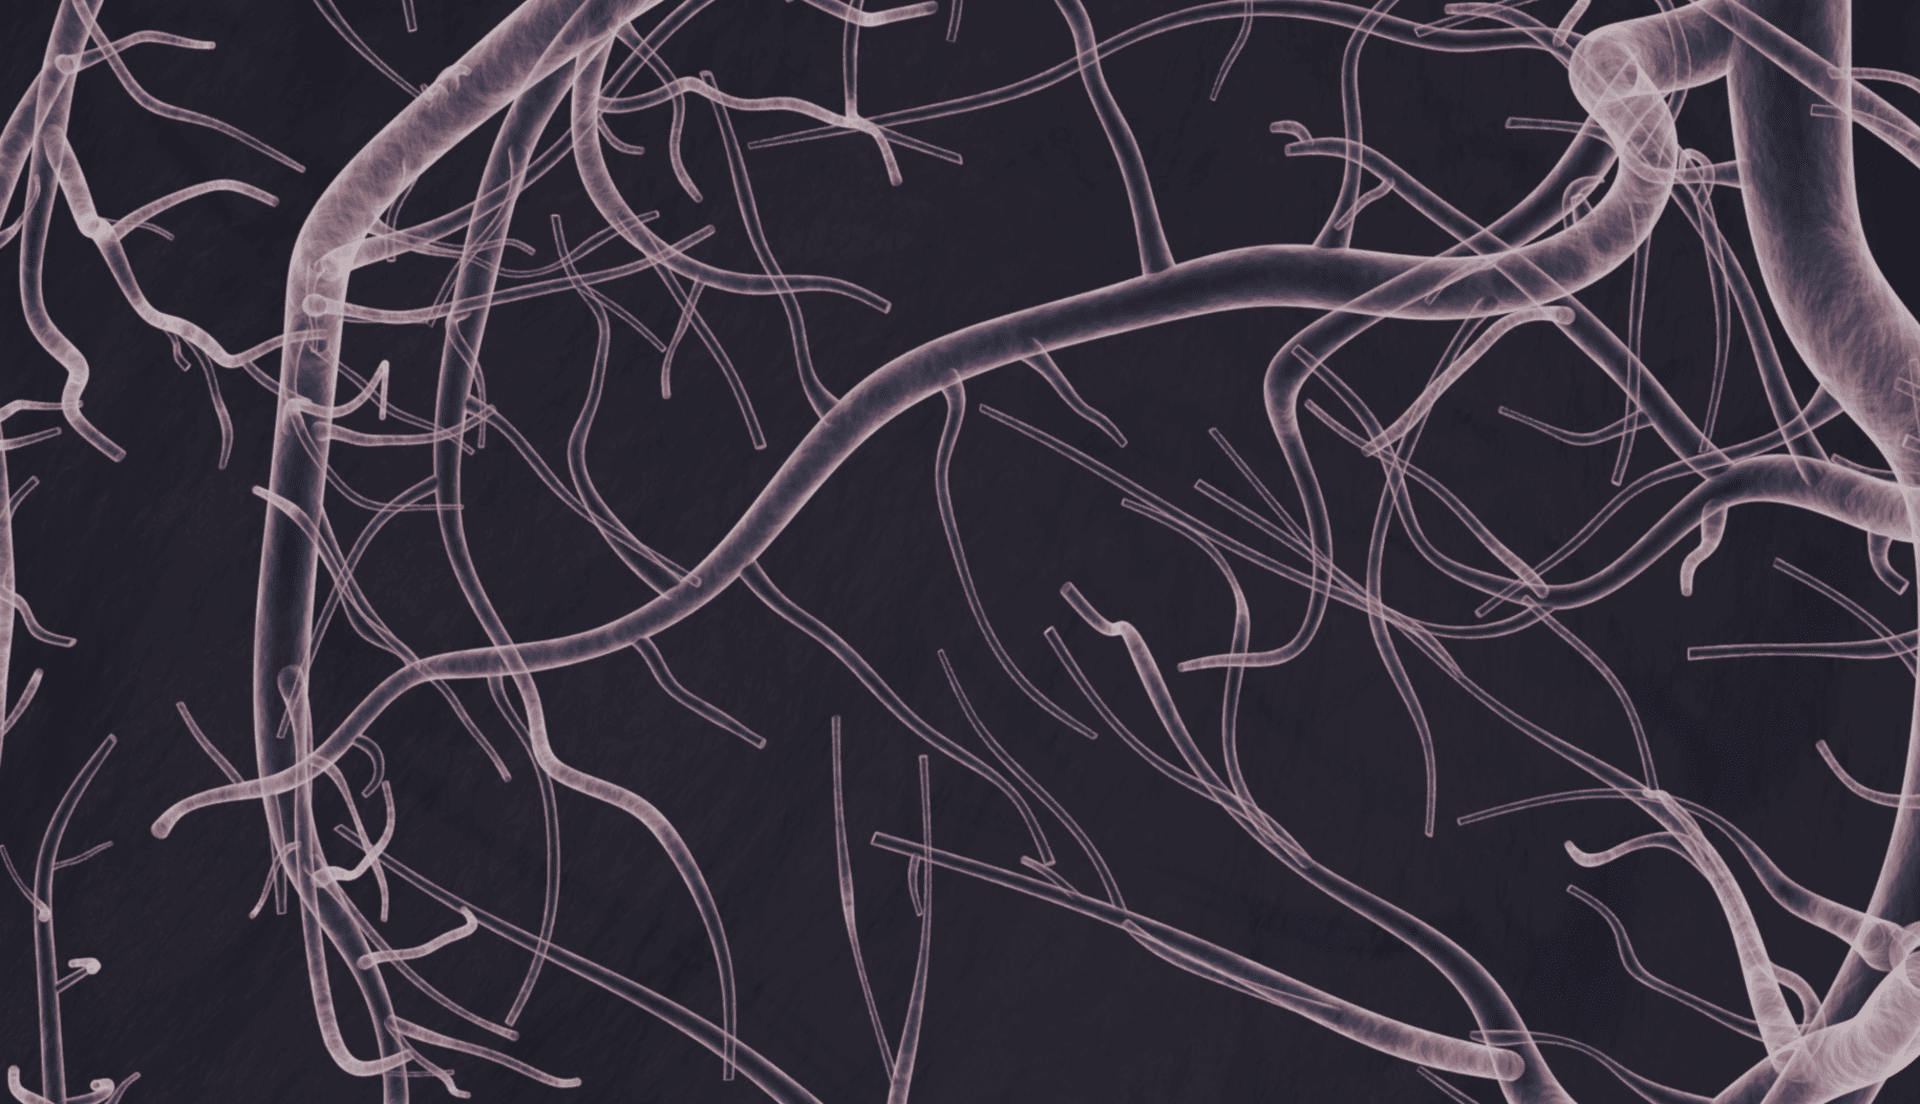
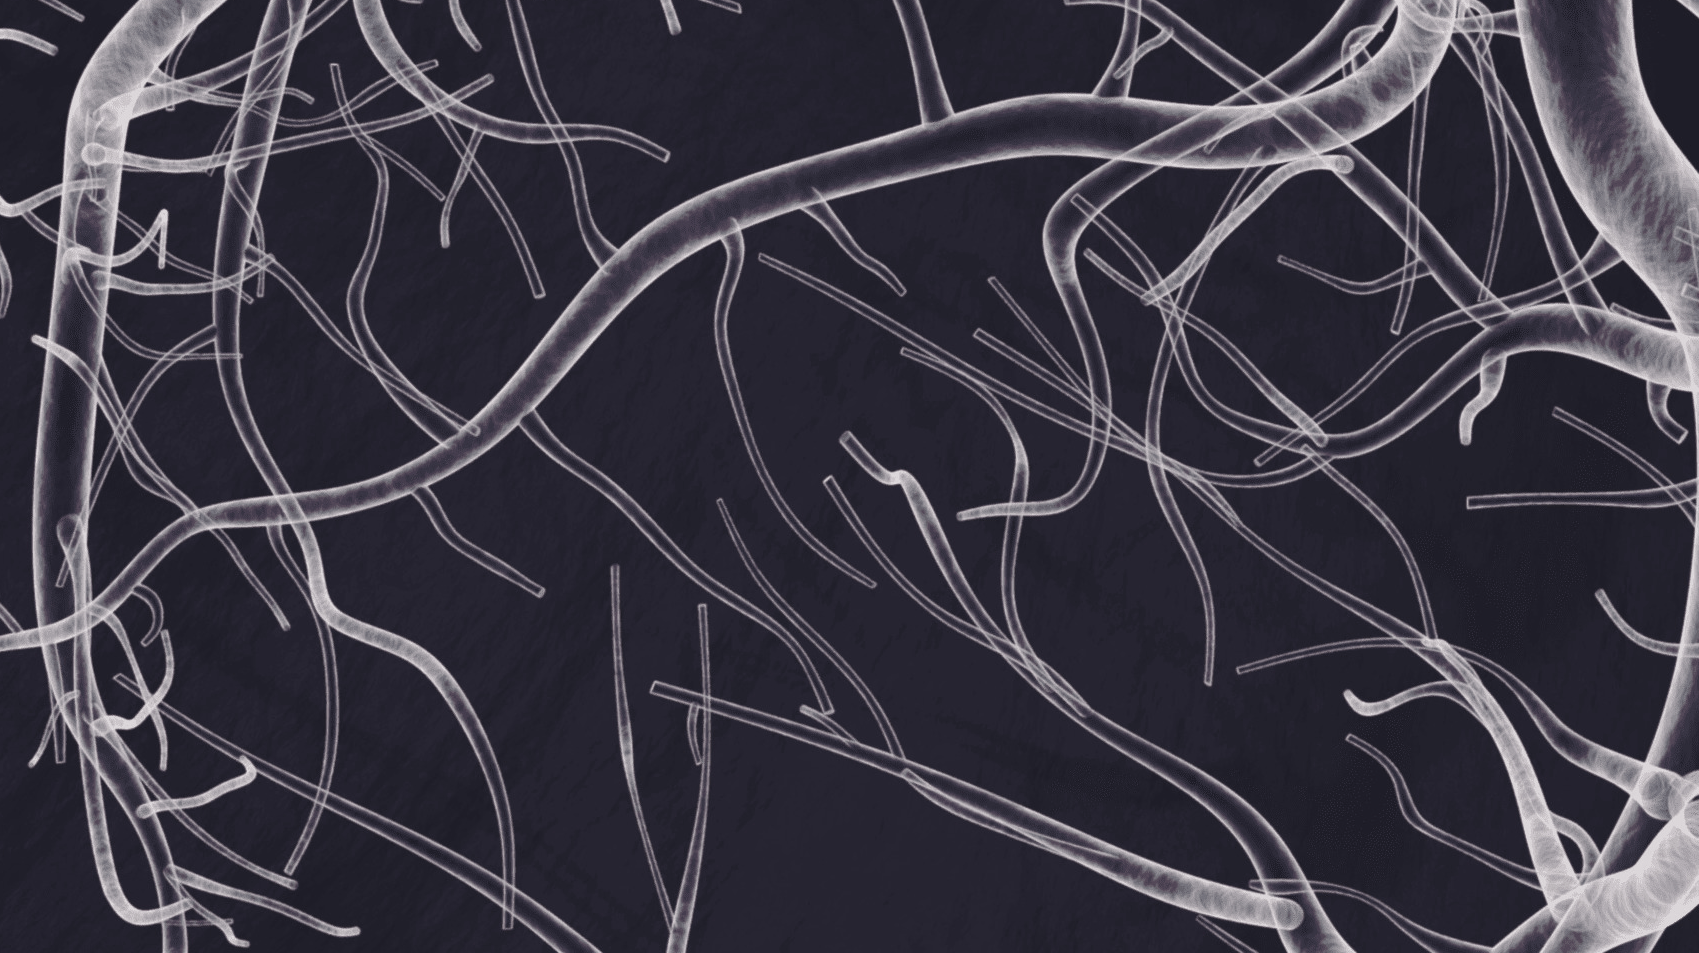
change hero image and padding bottom

diff --git a/css/home.css b/css/home.css
@@ -373,7 +373,7 @@ th:hover {
     max-height: 500px;
     padding-top: 30px;
     padding-bottom: 30px;
-    object-fit: cover;
+    object-fit: contain;
 }
 
 @media only screen and (max-width: 576px) {
@@ -459,21 +459,14 @@ th:hover {
     float: left;
     padding: 15px;
     margin-top: 15px;
+    padding-bottom: 30px;
     margin-bottom: 15px;
 }
 
 .newSectionHeader {
     display: block;
     float: left;
-    /* margin-right: 2.5%;
-    margin-left: 2.5%; */
-    /* margin-top: 30px; */
-    /* margin-bottom: 15px; */
-    /* width: 95%; */
     width: 100%;
-    /* height: 100px; */
-    /* background-color: var(--grey); */
-    /* border: 5px solid var(--lighterverydarkblue); */
     text-align: center;
     color: var(--black);
 }

diff --git a/index.html b/index.html
@@ -605,7 +605,7 @@
     </div>
   </div>
 
-  <div class="everyOtherSection"> 
+  <div class="everyOtherSection" style="padding-bottom: 30px; margin-bottom: 0"> 
     <div class="newSectionHeader">
       <h1 id="contact">Contact Us</h1>
       </div>
